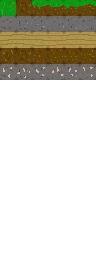
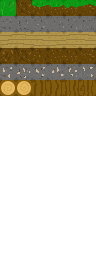
added tree trunks

Changed region(s): [[0.0, 0.3125, 1.0, 0.375]]

diff --git a/chunks.js b/chunks.js
@@ -377,14 +377,18 @@ function createChunk(chunkX, chunkY, chunkZ) {
     }
     let blockArray = new Uint16Array(chunkSize**3)
 
+    let height = 0
     for (let i=0; i<chunkSize**3; i++) {
         let y = Math.floor(i / chunkSize**2) + chunkY*chunkSize
         let x = Math.floor(i / chunkSize) % chunkSize + chunkX*chunkSize
         let z = i % chunkSize + chunkZ*chunkSize
         
-        let height = Math.round(perlinNoise(x/250, 0, z/250) * 80 * (perlinNoise(x/300, 0, z/300) + 0.3)) + Math.round(perlinNoise(x/30, 0, z/30) * 20 * perlinNoise(x/300, 0, z/300))
+        if (i % blockSize**2 == 0) height = Math.round(perlinNoise(x/250, 0, z/250) * 80 * (perlinNoise(x/300, 0, z/300) + 0.3)) + Math.round(perlinNoise(x/30, 0, z/30) * 20 * perlinNoise(x/300, 0, z/300))
 
         blockArray[i] = (cellNoise(x, y, z) < caveGridSize*caveThreshold) ? (y < height-5 ? (perlinNoise(x/10, y/10, z/10) < 0.4 ? 2 : 5) : y == height ? 1 : y < height ? 4 : 0) : 0
+        if (y > height && y < height+(Math.abs(perlinNoise(x/7, 0, z/7))*5+Math.abs(perlinNoise(x/1200, 0, z/1200))*14+5) && perlinNoise(x/1.5, 0, z/1.5) > perlinNoise(x/1200, 0, z/1200)/3 + 0.53 && (cellNoise(x, height, z) < caveGridSize*caveThreshold) == 1) {
+            blockArray[i] = 6
+        }
     }
 
     chunks[getChunkNameFromPos(chunkX, chunkY, chunkZ)] = blockArray

diff --git a/main.js b/main.js
@@ -8,7 +8,7 @@ import {
     chunkInRenderDis, 
     getBlockChunk
 } from './util.js'
-import { renderDistance, chunkSize } from './settings.js'
+import { renderDistance, chunkSize, blockSize } from './settings.js'
 
 const canvas = document.getElementById("c")
 const canvasUi = document.getElementById("cui")
@@ -369,7 +369,7 @@ fetchUtils().then(([adapter, device, shaderSource, diffuseImage, specularImage, 
         },
     };
     
-    const projectionMat = mat4.perspective(Math.PI/2, canvas.clientWidth / canvas.clientHeight, 0.1, 2000)
+    const projectionMat = mat4.perspective(Math.PI/2, canvas.clientWidth / canvas.clientHeight, 0.2, blockSize*chunkSize*renderDistance/2)
 
     {
         let chunksToCreate = []

diff --git a/settings.js b/settings.js
@@ -2,5 +2,5 @@ export const blockSize = 1
 export const renderDistance = 10
 export const chunkSize = 24
 export const seed = 21
-export const caveGridSize = 18
-export const caveThreshold = 0.8
+export const caveGridSize = 24
+export const caveThreshold = 0.86
